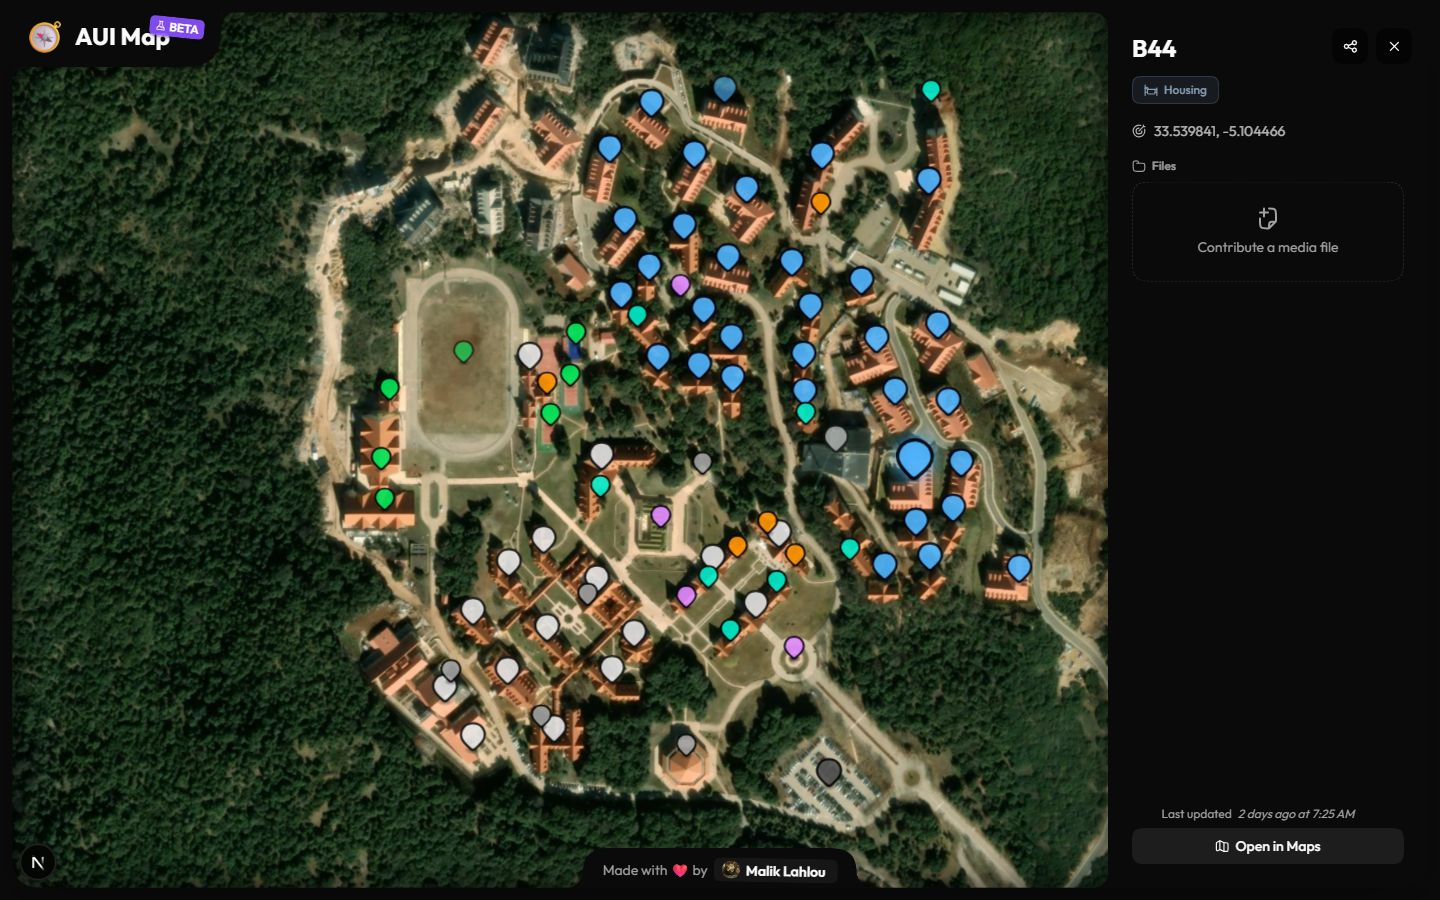
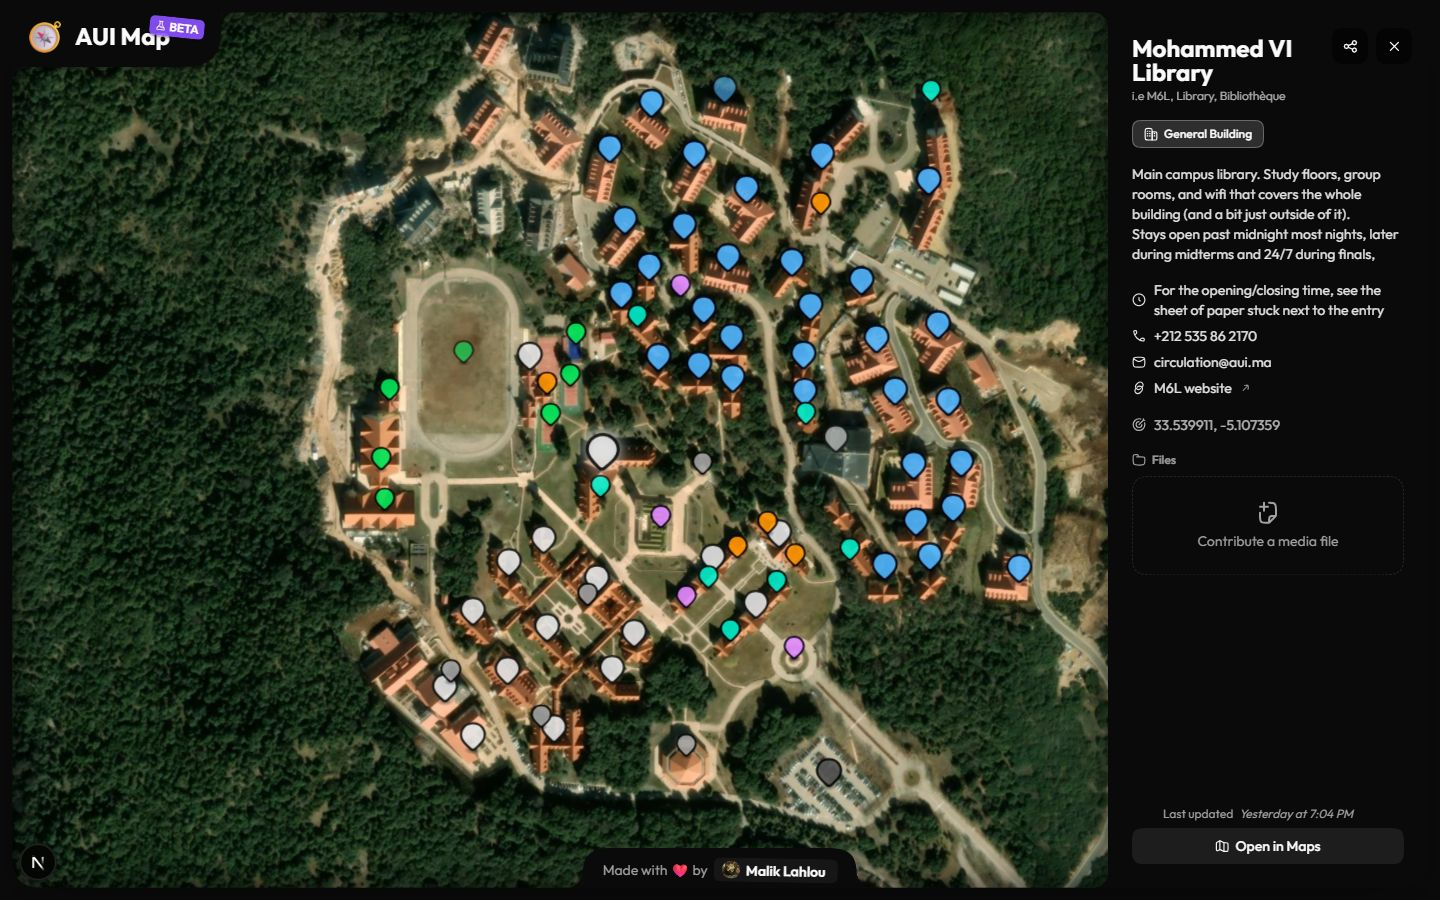
docs: drop Philosophy section, use the library for detail shots, add 4 more screenshots
Detail panel screenshots now show the library (real description,
hours, phone, email, link) instead of a bare building. Added zoomed-in
labels, filtering, searching, and a mocked-location screenshot.

diff --git a/README.md b/README.md
@@ -7,7 +7,9 @@ Live at [auimap.ma](https://auimap.ma).
 |                                  Desktop                                  |                                 Mobile                                  |
 | :------------------------------------------------------------------------: | :------------------------------------------------------------------------: |
 | ![Desktop map view](docs/screenshots/desktop-overview.jpg) | ![Mobile map view](docs/screenshots/mobile-overview.jpg) |
-| ![Desktop pin detail panel](docs/screenshots/desktop-detail.jpg) | ![Mobile pin detail sheet](docs/screenshots/mobile-detail.jpg) |
+| ![Desktop pin detail panel, the library](docs/screenshots/desktop-detail.jpg) | ![Mobile pin detail sheet, the library](docs/screenshots/mobile-detail.jpg) |
+| ![Pin labels appearing on zoom](docs/screenshots/zoomed-labels.jpg) | ![Filtering pins by tag](docs/screenshots/filtering.jpg) |
+| ![Searching for a pin](docs/screenshots/searching.jpg) | ![Live location on the map](docs/screenshots/location.jpg) |
 
 ## Features
 
@@ -25,13 +27,3 @@ Live at [auimap.ma](https://auimap.ma).
 - [`Tailwind CSS`](https://tailwindcss.com/) 4 · [`shadcn`](https://ui.shadcn.com/) (Nova style, Neutral theme, Medium radius, [`Outfit`](https://fonts.google.com/specimen/Outfit) font) · [`Hugeicons`](https://hugeicons.com/)
 - [`motion`](https://motion.dev/) for pin/panel animation, [`serwist`](https://serwist.pages.dev/) for the offline-capable PWA service worker
 - [`Biome`](https://biomejs.dev/) · [`pnpm`](https://pnpm.io/)
-
-## Philosophy
-
-Any config, generated code (shadcn, etc.) stays outside `src/`. `src/` is for application code only.
-
-Biome > ESLint + Prettier. One tool, one config, handles linting and formatting with autofix for both.
-
-pnpm is faster and doesn't copy packages into `node_modules`, just symlinks them.
-
-`.vscode/settings.json` hides ugly files (`node_modules`, `.next`, `shadcn/ui`, lockfiles...) from the file explorer.
